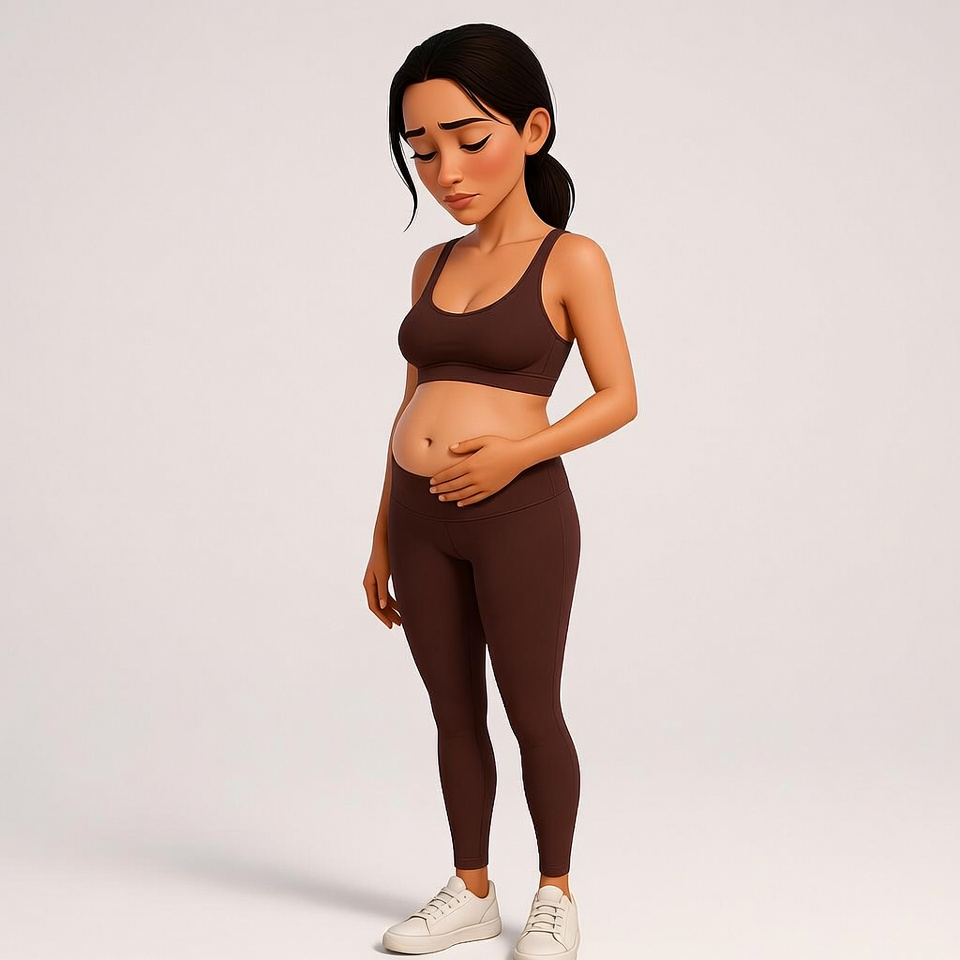
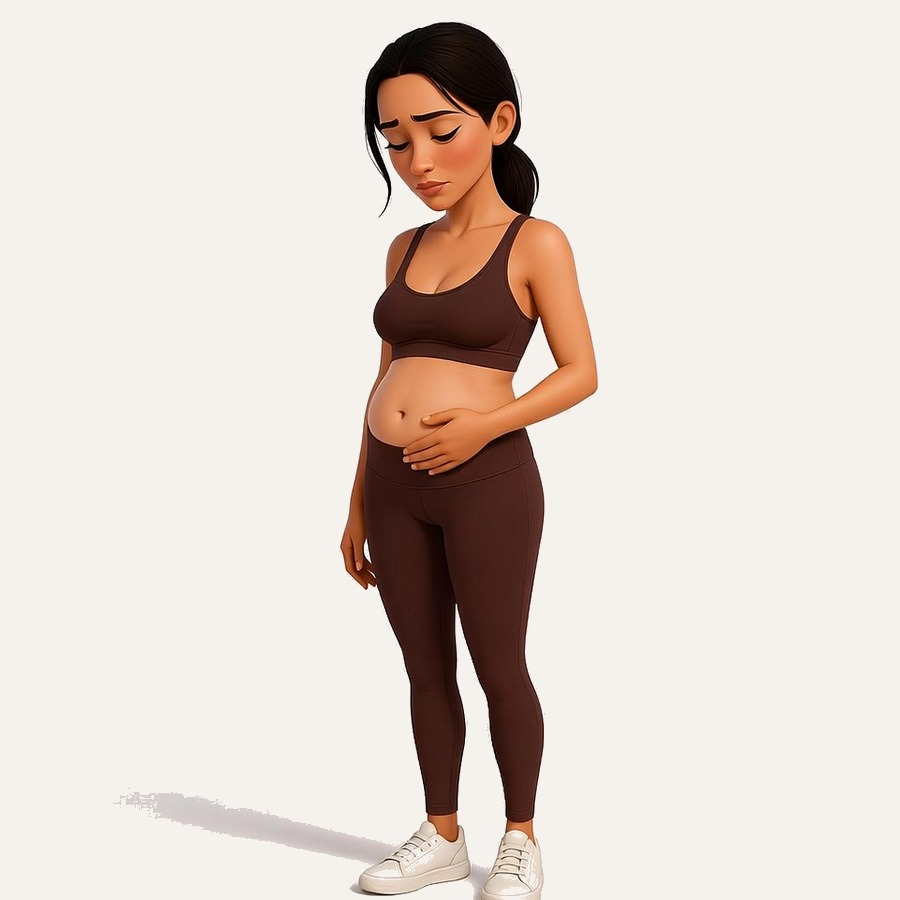
Etapa3 sem fundo branco e ocupando toda altura lateral

diff --git a/styles.css b/styles.css
@@ -211,9 +211,9 @@ img { max-width: 100%; display: block; }
 /* ---------- split layout (options + side image) ---------- */
 .q-split-layout {
   display: grid;
-  grid-template-columns: 1fr 0.8fr;
+  grid-template-columns: 1fr 1fr;
   gap: 14px;
-  align-items: start;
+  align-items: stretch;
 }
 .q-split-layout .option-list {
   min-width: 0;
@@ -225,17 +225,22 @@ img { max-width: 100%; display: block; }
   font-size: 14px;
 }
 .q-side-img {
-  position: sticky;
-  top: 120px;
-  align-self: start;
+  align-self: stretch;
+  display: flex;
+  align-items: center;
+  justify-content: center;
 }
 .q-side-img img {
   width: 100%;
+  height: 100%;
+  max-height: 100%;
+  object-fit: cover;
+  object-position: center;
   display: block;
   border-radius: var(--r-md);
 }
 @media (max-width: 420px) {
-  .q-split-layout { grid-template-columns: 1fr 0.7fr; gap: 10px; }
+  .q-split-layout { grid-template-columns: 1fr 0.9fr; gap: 10px; }
   .q-split-layout .option-text { font-size: 13px; }
 }
 
